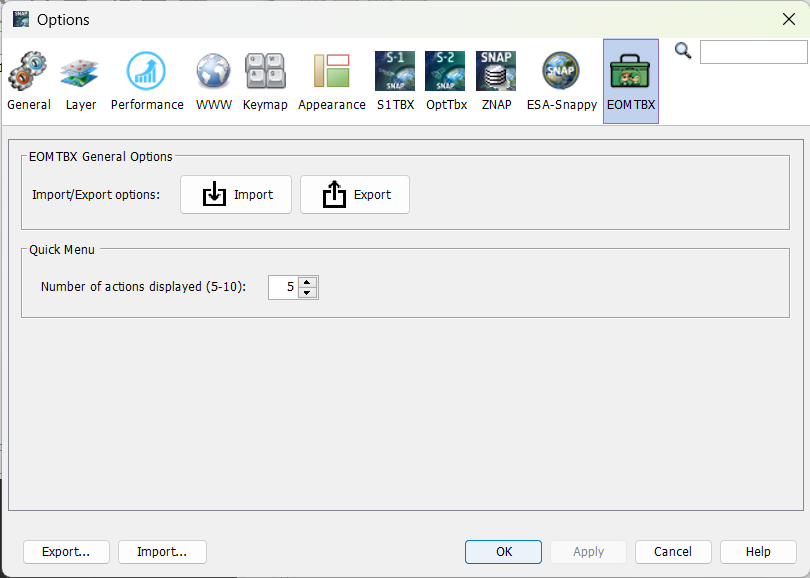
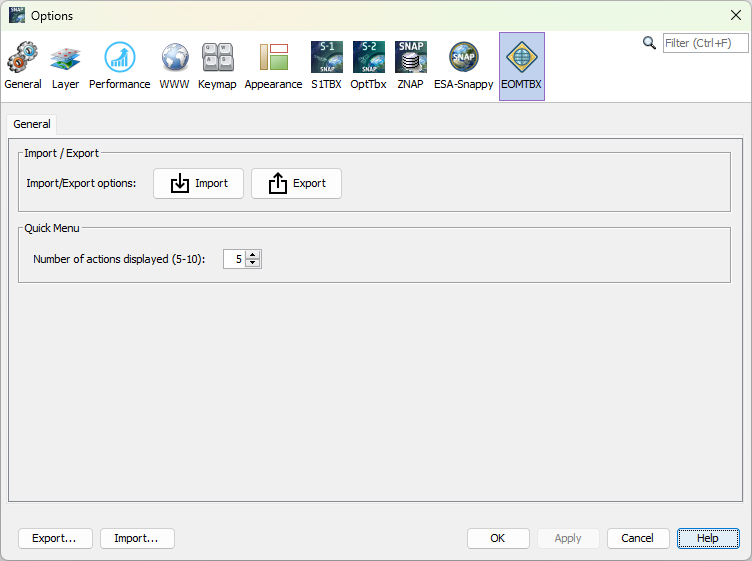
updated Options, help

diff --git a/src/main/java/org/eomasters/eomtbx/preferences/GeneralOptionsPanelController.java b/src/main/java/org/eomasters/eomtbx/preferences/GeneralOptionsPanelController.java
@@ -26,11 +26,9 @@ package org.eomasters.eomtbx.preferences;
 import java.beans.PropertyChangeEvent;
 import java.beans.PropertyChangeListener;
 import java.util.List;
-import java.util.prefs.BackingStoreException;
+import java.util.prefs.PreferenceChangeListener;
 import java.util.prefs.Preferences;
-import javax.swing.JButton;
 import javax.swing.JComponent;
-import javax.swing.JLabel;
 import javax.swing.JPanel;
 import javax.swing.JScrollPane;
 import javax.swing.ScrollPaneConstants;
@@ -40,28 +38,26 @@ import net.miginfocom.swing.MigLayout;
 import org.eomasters.eomtbx.EomToolbox;
 import org.eomasters.eomtbx.quickmenu.QuickMenuOptionsPanelController;
 import org.eomasters.gui.FileIo;
-import org.eomasters.icons.Icon.SIZE;
-import org.eomasters.icons.Icons;
 import org.netbeans.spi.options.OptionsPanelController;
 import org.openide.util.HelpCtx;
 import org.openide.util.Lookup;
+import org.openide.util.WeakListeners;
 
 /**
  * Controller for the EOMTBX options panel. Allows to change the preferences for the EOMTBX.
  */
 @SuppressWarnings("unused")
-@OptionsPanelController.TopLevelRegistration(
-    id = EomtbxOptionsPanelController.OPTIONS_ID,
-    categoryName = "EOMTBX",
-    iconBase = "org/eomasters/eomtbx/icons/EomToolbox_32.png",
+@OptionsPanelController.SubRegistration(
+    id = "general",
+    displayName = "General",
+    location = "eomtbx",
     keywordsCategory = "EOMTBX",
     keywords = "EOMTBX, EOMASTERS, Toolbox",
-    position = 9000
+    position = 0
 )
-public class EomtbxOptionsPanelController extends PropertyChangeOptionsPanelController {
+public class GeneralOptionsPanelController extends PropertyChangeOptionsPanelController {
 
-  public static final String OPTIONS_ID = "EOMTBX";
-  public static final String HID_EOMTBX_PREFERENCES = "eomtbxPreferences";
+  public static final String HID_EOMTBX_PREFERENCES = "eomtbxOptions";
   private static final FileFilter PREFERENCES_FILE_FILTER = FileIo.createFileFilter("Preferences file", "prefs");
   private final List<OptionsPanelController> subControllers;
   private final Preferences preferences = EomToolbox.getPreferences();
@@ -70,22 +66,18 @@ public class EomtbxOptionsPanelController extends PropertyChangeOptionsPanelCont
   /**
    * Creates a new EomtbxOptionsPanelController.
    */
-  public EomtbxOptionsPanelController() {
+  public GeneralOptionsPanelController() {
     SubControllerChangeDelegate propertyChangeDelegate = new SubControllerChangeDelegate();
 
+    ImExportOptionsPanelController imExportController = new ImExportOptionsPanelController();
     QuickMenuOptionsPanelController quickMenuController = new QuickMenuOptionsPanelController();
+    imExportController.addPropertyChangeListener(propertyChangeDelegate);
     quickMenuController.addPropertyChangeListener(propertyChangeDelegate);
-    subControllers = List.of(quickMenuController);
 
-    preferences.addPreferenceChangeListener(evt -> update());
-  }
 
-  private static void exportPreferences(JPanel eomtbxPanel) {
-    FileIo fileIo = new FileIo("Export EOMTBX preferences");
-    fileIo.setParent(eomtbxPanel);
-    fileIo.setFileName("eomtbx.prefs");
-    fileIo.setFileFilters(PREFERENCES_FILE_FILTER);
-    fileIo.save(EomToolbox::exportPreferences);
+    subControllers = List.of(imExportController, quickMenuController);
+    preferences.addPreferenceChangeListener(
+        WeakListeners.create(PreferenceChangeListener.class, evt -> update(), preferences));
   }
 
   @Override
@@ -96,12 +88,6 @@ public class EomtbxOptionsPanelController extends PropertyChangeOptionsPanelCont
   @Override
   public void applyChanges() {
     SwingUtilities.invokeLater(() -> subControllers.forEach(OptionsPanelController::applyChanges));
-    try {
-      preferences.flush();
-    } catch (BackingStoreException e) {
-      EomToolbox.handleUnexpectedException("Could not store options for EOMasters Toolbox", e);
-    }
-
   }
 
   @Override
@@ -122,10 +108,8 @@ public class EomtbxOptionsPanelController extends PropertyChangeOptionsPanelCont
   @Override
   public JComponent getComponent(Lookup lookup) {
     if (mainPanel == null) {
-      MigLayout layout = new MigLayout("fillx, gapy 5");
+      MigLayout layout = new MigLayout("top, left, fillx, gapy 5");
       JPanel prefPanel = new JPanel(layout);
-      JPanel generalPanel = createGeneralPanel();
-      prefPanel.add(generalPanel, "growx, wrap");
 
       for (OptionsPanelController subController : subControllers) {
         prefPanel.add(subController.getComponent(Lookup.getDefault()), "growx, wrap");
@@ -138,32 +122,6 @@ public class EomtbxOptionsPanelController extends PropertyChangeOptionsPanelCont
       mainPanel = scrollPane;
     }
     return mainPanel;
-  }
-
-  private JPanel createGeneralPanel() {
-    JPanel eomtbxPanel = new JPanel(new MigLayout("gap 5, insets 5"));
-    eomtbxPanel.setBorder(javax.swing.BorderFactory.createTitledBorder("EOMTBX General Options"));
-    eomtbxPanel.add(new JLabel("Import/Export options:"), "gapright 10");
-    JButton importButton = new JButton("Import", Icons.IMPORT.getImageIcon(SIZE.S24));
-    JButton exportButton = new JButton("Export", Icons.EXPORT.getImageIcon(SIZE.S24));
-    eomtbxPanel.add(importButton);
-    eomtbxPanel.add(exportButton, "wrap");
-
-    importButton.addActionListener(e -> importPreferences(eomtbxPanel));
-    exportButton.addActionListener(e -> exportPreferences(eomtbxPanel));
-
-    return eomtbxPanel;
-  }
-
-  private void importPreferences(JPanel eomtbxPanel) {
-    FileIo fileIo = new FileIo("Import EOMTBX preferences");
-    fileIo.setParent(eomtbxPanel);
-    fileIo.setFileName("eomtbx.prefs");
-    fileIo.setFileFilters(PREFERENCES_FILE_FILTER);
-    fileIo.load(inputStream -> {
-      EomToolbox.importPreferences(inputStream);
-      update();
-    });
   }
 
   @Override
@@ -195,3 +153,5 @@ public class EomtbxOptionsPanelController extends PropertyChangeOptionsPanelCont
     }
   }
 }
+
+

diff --git a/src/main/java/org/eomasters/eomtbx/preferences/ImExportOptionsPanelController.java b/src/main/java/org/eomasters/eomtbx/preferences/ImExportOptionsPanelController.java
@@ -1,0 +1,124 @@
+/*-
+ * ========================LICENSE_START=================================
+ * EOMTBX PRO - EOMasters Toolbox PRO for SNAP
+ * -> https://www.eomasters.org/sw/EOMTBX
+ * ======================================================================
+ * Copyright (C) 2023 Marco Peters
+ * ======================================================================
+ * This program is free software: you can redistribute it and/or modify
+ * it under the terms of the GNU General Public License as
+ * published by the Free Software Foundation, either version 3 of the
+ * License, or (at your option) any later version.
+ * 
+ * This program is distributed in the hope that it will be useful,
+ * but WITHOUT ANY WARRANTY; without even the implied warranty of
+ * MERCHANTABILITY or FITNESS FOR A PARTICULAR PURPOSE.  See the
+ * GNU General Public License for more details.
+ * 
+ * You should have received a copy of the GNU General Public
+ * License along with this program.  If not, see
+ * -> http://www.gnu.org/licenses/gpl-3.0.html
+ * =========================LICENSE_END==================================
+ */
+
+package org.eomasters.eomtbx.preferences;
+
+import java.util.prefs.BackingStoreException;
+import java.util.prefs.Preferences;
+import javax.swing.JButton;
+import javax.swing.JComponent;
+import javax.swing.JLabel;
+import javax.swing.JPanel;
+import javax.swing.filechooser.FileFilter;
+import net.miginfocom.swing.MigLayout;
+import org.eomasters.eomtbx.EomToolbox;
+import org.eomasters.gui.FileIo;
+import org.eomasters.icons.Icon.SIZE;
+import org.eomasters.icons.Icons;
+import org.openide.util.HelpCtx;
+import org.openide.util.Lookup;
+
+public class ImExportOptionsPanelController extends PropertyChangeOptionsPanelController {
+
+    public static final String HID_EOMTBX_PREFERENCES = "eomtbxOptions";
+    private static final FileFilter PREFERENCES_FILE_FILTER = FileIo.createFileFilter("Preferences file", "prefs");
+    private final Preferences preferences = EomToolbox.getPreferences();
+    private JComponent mainPanel;
+
+    private static void exportPreferences(JPanel eomtbxPanel) {
+      FileIo fileIo = new FileIo("Export EOMTBX preferences");
+      fileIo.setParent(eomtbxPanel);
+      fileIo.setFileName("eomtbx.prefs");
+      fileIo.setFileFilters(PREFERENCES_FILE_FILTER);
+      fileIo.save(EomToolbox::exportPreferences);
+    }
+
+    @Override
+    public void update() {
+
+    }
+
+    @Override
+    public void applyChanges() {
+      try {
+        preferences.flush();
+      } catch (BackingStoreException e) {
+        EomToolbox.handleUnexpectedException("Could not store options for EOMasters Toolbox", e);
+      }
+
+    }
+
+    @Override
+    public void cancel() {
+    }
+
+    @Override
+    public boolean isValid() {
+      return true;
+    }
+
+    @Override
+    public boolean isChanged() {
+      return false;
+    }
+
+    @Override
+    public JComponent getComponent(Lookup lookup) {
+      if (mainPanel == null) {
+        mainPanel = createGeneralPanel();
+      }
+      return mainPanel;
+    }
+
+    private JPanel createGeneralPanel() {
+      JPanel eomtbxPanel = new JPanel(new MigLayout("gap 5, insets 5"));
+      eomtbxPanel.setBorder(javax.swing.BorderFactory.createTitledBorder("Import / Export"));
+      eomtbxPanel.add(new JLabel("Import/Export options:"), "gapright 10");
+      JButton importButton = new JButton("Import", Icons.IMPORT.getImageIcon(SIZE.S24));
+      JButton exportButton = new JButton("Export", Icons.EXPORT.getImageIcon(SIZE.S24));
+      eomtbxPanel.add(importButton);
+      eomtbxPanel.add(exportButton, "wrap");
+
+      importButton.addActionListener(e -> importPreferences(eomtbxPanel));
+      exportButton.addActionListener(e -> exportPreferences(eomtbxPanel));
+
+      return eomtbxPanel;
+    }
+
+    private void importPreferences(JPanel eomtbxPanel) {
+      FileIo fileIo = new FileIo("Import EOMTBX preferences");
+      fileIo.setParent(eomtbxPanel);
+      fileIo.setFileName("eomtbx.prefs");
+      fileIo.setFileFilters(PREFERENCES_FILE_FILTER);
+      fileIo.load(inputStream -> {
+        EomToolbox.importPreferences(inputStream);
+        update();
+      });
+    }
+
+    @Override
+    public HelpCtx getHelpCtx() {
+      return new HelpCtx(HID_EOMTBX_PREFERENCES);
+    }
+
+}

diff --git a/src/main/java/org/eomasters/eomtbx/preferences/package-info.java b/src/main/java/org/eomasters/eomtbx/preferences/package-info.java
@@ -1,0 +1,33 @@
+/*-
+ * ========================LICENSE_START=================================
+ * EOMTBX PRO - EOMasters Toolbox PRO for SNAP
+ * -> https://www.eomasters.org/sw/EOMTBX
+ * ======================================================================
+ * Copyright (C) 2023 Marco Peters
+ * ======================================================================
+ * This program is free software: you can redistribute it and/or modify
+ * it under the terms of the GNU General Public License as
+ * published by the Free Software Foundation, either version 3 of the
+ * License, or (at your option) any later version.
+ * 
+ * This program is distributed in the hope that it will be useful,
+ * but WITHOUT ANY WARRANTY; without even the implied warranty of
+ * MERCHANTABILITY or FITNESS FOR A PARTICULAR PURPOSE.  See the
+ * GNU General Public License for more details.
+ * 
+ * You should have received a copy of the GNU General Public
+ * License along with this program.  If not, see
+ * -> http://www.gnu.org/licenses/gpl-3.0.html
+ * =========================LICENSE_END==================================
+ */
+
+@ContainerRegistration(
+    id = "eomtbx",
+    categoryName = "EOMTBX",
+    iconBase = "org/eomasters/eomtbx/icons/EomToolbox_32.png",
+    keywordsCategory = "EOMTBX",
+    keywords = "EOMTBX, EOMASTERS, Toolbox",
+    position = 9000)
+package org.eomasters.eomtbx.preferences;
+
+import org.netbeans.spi.options.OptionsPanelController.ContainerRegistration;
